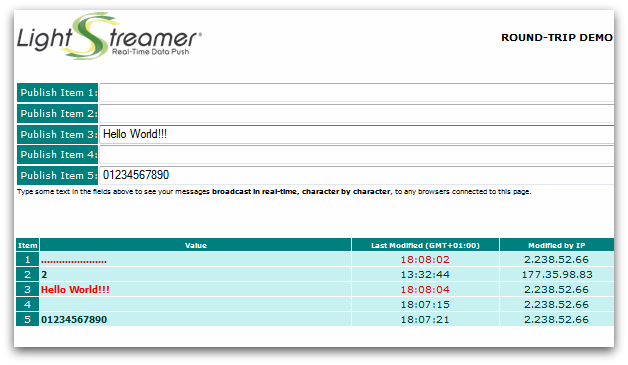
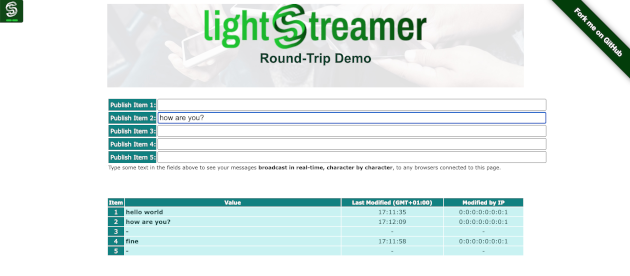
update graphics

diff --git a/src/css/roundtrip.css b/src/css/roundtrip.css
@@ -16,7 +16,32 @@
  * See the License for the specific language governing permissions and
  * limitations under the License.
  */
- .ribbon {
+.banner {
+  height: 150px;
+  position: relative;
+  background-image: url("../images/banner.jpg");
+  background-size: cover;
+  background-position: bottom;
+}  
+.logo {
+  width: 400px;
+  position: absolute;
+  left: 50%;
+  transform: translateX(-50%);
+}  
+.banner p {
+  width: 100%;
+  position: absolute;
+  left: 0;
+  top: 60px;
+  font-family: "Amazon Ember", Arial, Helvetica, Sans-serif;
+  font-size: x-large;
+  color: #063d27;
+  font-weight: bold;
+  text-align: center;
+}
+.ribbon {
+  z-index: 1;
   background-color: #003D06;
   overflow: hidden;
   white-space: nowrap;
@@ -42,6 +67,7 @@
   text-decoration: none;
   text-shadow: 0 0 5px #444;
 }
+
 .demoTitle {
   font-family: Verdana, Arial, Helvetica, Sans-serif;
   font-size: 9pt;

diff --git a/src/index.html b/src/index.html
@@ -32,13 +32,14 @@
     <a href="https://github.com/Lightstreamer/Lightstreamer-example-RoundTrip-client-javascript">Fork me on GitHub</a>
   </div>
   <div id="wrap">
-    <table width="750px" border="0">  
-      <tr>
-        <td><a href="http://www.lightstreamer.com" target="_blank">
-          <img src="images/logo.png" alt="LIGHTSTREAMER" hspace="0" border="0" /></a></td>
-        <td class="demoTitle">ROUND-TRIP DEMO</td>
-      </tr>
-    </table>
+    <div class="banner">
+      <a href="https://www.lightstreamer.com">
+        <img src="images/logo.png" alt="Logo" class="logo">
+      </a>
+      <p>
+        Round-Trip Demo
+      </p>
+    </div>
 
     <br />
     
